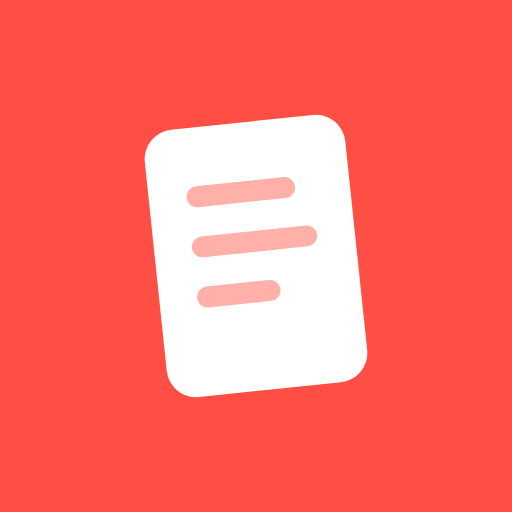
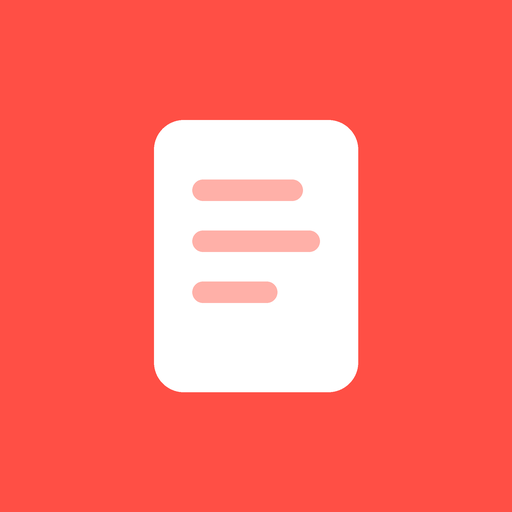
List thumbnails, to-do on launch, edited notes rise; vault out of main search
- Note rows show the first image (or YouTube video) as a 48px thumbnail, made once and cached per device.
- Opening the app starts on the to-do page; the app's own update reload stays on the list.
- Editing a note moves it, and its folder, to the top of its section.
- The main search no longer lists vault entries; the unencrypted site-name index is removed.
- Favourites band gets stronger edge rules; compact section headings with a notepad icon on 노트.
- Upright note in the app icon; outline 추가 button on the to-do page.

diff --git a/app.js b/app.js
@@ -3,9 +3,10 @@
 const $ = id => document.getElementById(id);
 const CFG_KEY = 'notes.config';
 const REPO_ID_KEY = 'notes.repoId';
-// Site names and addresses of vault entries, unencrypted and on this device only, so the main
-// search can find them while the vault is locked. IDs, passwords and memos are never in it.
-const VAULT_INDEX_KEY = 'notes.vaultIndex';
+// Older versions kept vault site names here, unencrypted, for the main search.
+localStorage.removeItem('notes.vaultIndex');
+// Set just before the app reloads itself for an update, so it comes back to the list it was on.
+const STAY_ON_LIST_KEY = 'notes.stayOnList';
 const MAX_UPLOADS_PER_CYCLE = 50; // GitHub limits content creation to about 80 writes a minute
 const MAX_IMAGE_SIDE = 1600;
 const IMAGE_PATH = /^\.\.\/images\/([0-9a-f]+\.(?:jpg|png|gif))$/;
@@ -360,6 +361,112 @@ function youtubeId(href) {
   return { id, start };
 }
 
+// ---------- List thumbnails ----------
+// A note's first image, or else its first YouTube video, shown small on its row in the list.
+// Image thumbnails are made once from the stored image and kept on this device only, in their
+// own database; they are never synced. Rows load theirs only when they scroll into view.
+
+const THUMB_SIDE = 144; // pixels: sharp at 48 points on a 3x screen
+const thumbUrls = new Map(); // image name → object URL of its thumbnail
+const thumbSources = new Map(); // note id → { body, src } for the body it was found in
+
+const thumbDb = new Promise(resolve => {
+  const req = indexedDB.open('notes-thumbs', 1);
+  req.onupgradeneeded = () => req.result.createObjectStore('thumbs');
+  req.onsuccess = () => resolve(req.result);
+  req.onerror = () => resolve(null); // no cache: thumbnails are made again each time
+});
+
+function thumbSource(n) {
+  const body = n.body || '';
+  const hit = thumbSources.get(n.id);
+  if (hit && hit.body === body) return hit.src;
+  let src = null;
+  const img = body.match(/<img\b[^>]*\bsrc="\.\.\/images\/([0-9a-f]+\.(?:jpg|png|gif))"/);
+  if (img) src = { image: img[1] };
+  else {
+    for (const m of body.matchAll(/\bhref="([^"]+)"/g)) {
+      const video = youtubeId(m[1].replace(/&amp;/g, '&'));
+      if (video) { src = { video: video.id }; break; }
+    }
+  }
+  thumbSources.set(n.id, { body, src });
+  return src;
+}
+
+async function thumbBlob(name) {
+  const db = await thumbDb;
+  const cached = db && await new Promise(resolve => {
+    const req = db.transaction('thumbs').objectStore('thumbs').get(name);
+    req.onsuccess = () => resolve(req.result || null);
+    req.onerror = () => resolve(null);
+  });
+  if (cached) return cached;
+  const image = await getImage(name);
+  if (!image) return null; // not downloaded yet; the list is drawn again when it arrives
+  const bitmap = await createImageBitmap(image.blob);
+  const side = Math.min(bitmap.width, bitmap.height);
+  const canvas = document.createElement('canvas');
+  canvas.width = canvas.height = Math.min(THUMB_SIDE, side);
+  const ctx = canvas.getContext('2d');
+  ctx.fillStyle = '#fff'; // under transparent parts, which a JPEG would turn black
+  ctx.fillRect(0, 0, canvas.width, canvas.height);
+  ctx.drawImage(bitmap, (bitmap.width - side) / 2, (bitmap.height - side) / 2, side, side, 0, 0, canvas.width, canvas.height);
+  bitmap.close();
+  const blob = await new Promise(resolve => canvas.toBlob(resolve, 'image/jpeg', 0.8));
+  if (blob && db) db.transaction('thumbs', 'readwrite').objectStore('thumbs').put(blob, name);
+  return blob;
+}
+
+function dropThumb(img) {
+  const button = img.parentElement && img.parentElement.querySelector('button.with-thumb');
+  if (button) button.classList.remove('with-thumb');
+  img.remove();
+}
+
+async function loadThumb(img) {
+  const name = img.dataset.image;
+  let url = thumbUrls.get(name);
+  if (!url) {
+    const blob = await thumbBlob(name).catch(() => null);
+    if (blob) {
+      url = URL.createObjectURL(blob);
+      thumbUrls.set(name, url);
+    }
+  }
+  if (url) img.src = url;
+  else dropThumb(img);
+}
+
+const thumbObserver = new IntersectionObserver(entries => {
+  for (const e of entries) {
+    if (!e.isIntersecting) continue;
+    thumbObserver.unobserve(e.target);
+    loadThumb(e.target);
+  }
+}, { root: $('list'), rootMargin: '200px 0px' });
+
+function thumbFor(n) {
+  const src = thumbSource(n);
+  if (!src) return null;
+  const img = document.createElement('img');
+  img.className = 'thumb';
+  img.alt = '';
+  img.decoding = 'async';
+  img.onerror = () => dropThumb(img);
+  if (src.video) {
+    img.loading = 'lazy';
+    img.referrerPolicy = 'no-referrer';
+    img.src = `https://i.ytimg.com/vi/${src.video}/mqdefault.jpg`;
+  } else if (thumbUrls.has(src.image)) {
+    img.src = thumbUrls.get(src.image);
+  } else {
+    img.dataset.image = src.image;
+    thumbObserver.observe(img);
+  }
+  return img;
+}
+
 function decorateVideos() {
   if (!editor) return;
   const body = editor.getBody();
@@ -511,15 +618,6 @@ function appendSnippet(el, note, q) {
   );
 }
 
-function readVaultIndex() {
-  try {
-    const list = JSON.parse(localStorage.getItem(VAULT_INDEX_KEY) || '[]');
-    return Array.isArray(list) ? list : [];
-  } catch {
-    return [];
-  }
-}
-
 // ---------- Note order ----------
 // The list keeps the order it is dragged into. The order lives in its own repository file,
 // merged note by note like the to-do list, so reordering never rewrites the notes themselves.
@@ -556,6 +654,15 @@ const topOrderValue = () => Math.min(0, ...Object.values(loadOrder().items).map(
 // restored or moved into a folder), go to the top.
 function putOnTop(id) {
   setOrders({ [id]: topOrderValue() });
+}
+
+// An edited note goes to the top of its section, and its folder to the top of the folder's.
+// Once per opening, so typing does not keep rewriting the order.
+let raisedId = null;
+function raiseEdited(id) {
+  const top = topOrderValue();
+  const folder = folderOf(id);
+  setOrders(folder ? { [id]: top, [folder.id]: top - 1 } : { [id]: top });
 }
 
 // ---------- Folders ----------
@@ -868,6 +975,13 @@ async function render() {
     b.onclick = () => openNote(n.id);
     li.append(b);
     if (editingOrder) li.append(handleFor(li));
+    else {
+      const thumb = thumbFor(n);
+      if (thumb) {
+        b.classList.add('with-thumb');
+        li.append(thumb);
+      }
+    }
     return li;
   };
   const folderRow = (f, section) => {
@@ -905,6 +1019,15 @@ async function render() {
     }
     return li;
   };
+  const notesLabel = () => {
+    const li = label('');
+    li.classList.add('notes-label');
+    const icon = document.createElement('b');
+    icon.className = 'head-icon';
+    icon.innerHTML = '<svg viewBox="0 0 14 14" aria-hidden="true"><rect x="2.5" y="1.5" width="9" height="11" rx="1.5"/><path d="M5 5h4M5 7.5h4M5 10h2.5"/></svg>';
+    li.append(icon, '노트');
+    return li;
+  };
   const row = section => item => (item.kind === 'folder' ? folderRow(item, section) : noteRow(item, section));
   // Favourite rows share one card; dragging still moves them among their own siblings.
   const favCard = () => {
@@ -913,39 +1036,25 @@ async function render() {
     const head = document.createElement('div');
     head.className = 'fav-label';
     const star = document.createElement('b');
+    star.className = 'head-icon';
     star.textContent = '★';
-    head.append(star, ' 즐겨찾기');
+    head.append(star, '즐겨찾기');
     const ul = document.createElement('ul');
     ul.className = 'fav-list';
     ul.append(...favorites.map(row('favorite')));
     li.append(head, ul);
     return li;
   };
-  const vaultHits = q && !activeTag ? readVaultIndex().filter(e => `${e.site}\n${e.url}`.toLowerCase().includes(q)) : [];
-  const vaultRow = e => {
-    const li = document.createElement('li');
-    const b = document.createElement('button');
-    b.type = 'button';
-    const title = document.createElement('strong');
-    title.textContent = `🔒 ${e.site.trim() || e.url.trim()}`;
-    const sub = document.createElement('span');
-    sub.textContent = e.site.trim() && e.url.trim() ? e.url.trim() : '금고 항목 · 열려면 잠금 해제';
-    b.append(title, sub);
-    b.onclick = () => openVaultEntry(e.id);
-    li.append(b);
-    return li;
-  };
   $('list').replaceChildren(
     // todo.js may still be loading on the first draw; it draws the list again once it is in.
     ...(q || activeTag || typeof todoEntry !== 'function' ? [] : [todoEntry()]),
     ...(favorites.length ? [favCard()] : []),
-    ...(favorites.length && others.length ? [label('노트')] : []),
+    ...(favorites.length && others.length ? [notesLabel()] : []),
     ...others.map(row('note')),
-    ...(vaultHits.length ? [label('금고'), ...vaultHits.map(vaultRow)] : []),
   );
 
   const empty = $('empty');
-  empty.hidden = shown.length + vaultHits.length > 0;
+  empty.hidden = shown.length > 0;
   empty.textContent = q || activeTag ? '찾는 노트가 없어요.' : '아직 노트가 없어요. ＋ 버튼으로 시작하세요.';
   if ($('trash').open) await renderTrash();
   if ($('todo').open) renderTodos();
@@ -985,6 +1094,10 @@ async function flushEditor() {
     return n;
   });
   $('edited').textContent = '저장됨 ' + formatDate(new Date().toISOString());
+  if (raisedId !== id) {
+    raisedId = id;
+    raiseEdited(id);
+  }
   render();
   scheduleSync(3000);
 }
@@ -1061,6 +1174,7 @@ async function showNote(n, fromSearch) {
   await ensureEditor();
   await loadIntoEditor(n, false);
   currentId = n.id; // set last, so a save during loading cannot write the old text into this note
+  raisedId = null;
   editor.getWin().scrollTo(0, 0);
   $('edited').textContent = '수정 ' + formatDate(n.updated);
   closeFind();
@@ -2015,7 +2129,10 @@ if ('serviceWorker' in navigator) {
     if (!hadController || updateSeen) return;
     updateSeen = true;
     // Never reload under someone who is editing or inside the vault.
-    if (!currentId && !$('vault').open && !$('todo').open) location.reload();
+    if (!currentId && !$('vault').open && !$('todo').open) {
+      sessionStorage.setItem(STAY_ON_LIST_KEY, '1');
+      location.reload();
+    }
     else toast('새 버전이 준비됐어요. 앱을 다시 열면 적용돼요.');
   });
   navigator.serviceWorker.register('sw.js');

diff --git a/style.css b/style.css
@@ -14,6 +14,7 @@
   --text-soft: #4b4741;
   --handle: #a19b91;
   --card: #f5f2eb;
+  --edge: #aba69c;
 }
 @media (prefers-color-scheme: dark) {
   :root {
@@ -31,6 +32,7 @@
     --text-soft: #c6c2b9;
     --handle: #8a857b;
     --card: #292826;
+    --edge: #6c685f;
   }
 }
 * { box-sizing: border-box; }
@@ -158,9 +160,12 @@ body.resizing #main { pointer-events: none; }
 }
 #list .folder-head[aria-expanded="true"] strong::after { transform: translateY(2px) rotate(-135deg); }
 /* Favourites share one grey band across the full width, opened by its own heading. */
-#list li.fav-card { background: var(--card); }
-.fav-label { padding: 20px 16px 8px; color: var(--muted); font-size: 13px; font-weight: 700; }
+#list li.fav-card { background: var(--card); border-top: 1px solid var(--edge); border-bottom: 1px solid var(--edge); }
+.fav-label { padding: 8px 16px 4px; color: var(--muted); font-size: 13px; font-weight: 700; }
 .fav-label b { color: var(--accent); }
+/* ★ and the notepad sit in one slot, so both headings start their words in line. */
+.head-icon { display: inline-block; width: 16px; margin-right: 4px; text-align: center; }
+.head-icon svg { display: inline-block; width: 13px; height: 13px; vertical-align: -1px; fill: none; stroke: currentColor; stroke-width: 1.3; stroke-linecap: round; }
 .fav-list { margin: 0; padding: 0; list-style: none; }
 .folder-fav { width: 100%; min-height: 44px; margin-bottom: 12px; text-align: left; }
 /* The note's own star is the only place a note is starred, so it gets a little more room. */
@@ -209,7 +214,20 @@ body.list-dragging, body.list-dragging * { cursor: grabbing; user-select: none; 
   font-size: 12px;
   font-weight: 700;
 }
-#list > li.label { padding: 20px 16px 8px; font-size: 13px; }
+#list > li.label { padding: 8px 16px 4px; font-size: 13px; }
+#list button.with-thumb { padding-right: 76px; }
+#list img.thumb {
+  position: absolute;
+  top: 50%;
+  right: 16px;
+  width: 48px;
+  height: 48px;
+  margin-top: -24px;
+  border-radius: 8px;
+  background: var(--line);
+  object-fit: cover;
+  pointer-events: none;
+}
 #list button.note.with-handle, #list button.folder-head { padding-right: 48px; }
 #list button.folder-more {
   position: absolute;
@@ -415,6 +433,7 @@ dialog#vault .bar, dialog#todo .bar {
 dialog .todo-add input { flex: 1; min-width: 0; margin: 0; }
 dialog .todo-add select { flex: none; width: auto; margin: 0; padding: 8px 6px; }
 .todo-add button { flex: none; }
+.todo-add button.primary { background: transparent; color: var(--accent); }
 .todo-section h2, .todo-section summary { margin: 20px 0 6px; font-size: 15px; font-weight: 700; }
 .todo-section summary { cursor: pointer; }
 .todo-section > .muted { margin: 4px 0 0; }

diff --git a/vault.js b/vault.js
@@ -255,9 +255,6 @@ async function openVault() {
       await reloadEntries();
       backToList();
       resetIdleTimer();
-      const pending = vaultEntries.find(e => e.id === pendingEntryId);
-      pendingEntryId = null;
-      if (pending) openForm(pending);
       return;
     }
     lockVault();
@@ -265,13 +262,6 @@ async function openVault() {
   await showLockedPanel();
   // Only here, not after locking: the lock button must not bring the prompt straight back.
   if (!$('vault-unlock').hidden && !$('vault-bio-unlock').hidden) await unlockWithBio();
-}
-
-// From a vault row in the main search: unlock, then go straight to that entry.
-let pendingEntryId = null;
-function openVaultEntry(id) {
-  pendingEntryId = id;
-  openVault();
 }
 
 async function showLockedPanel() {
@@ -331,9 +321,6 @@ async function unlockWithRawKey(raw, keyId) {
   showVaultPanel('vault-list');
   resetIdleTimer();
   await restoreDraft();
-  const pending = vaultEntries.find(e => e.id === pendingEntryId);
-  pendingEntryId = null;
-  if (pending && $('vault-form').hidden) openForm(pending);
 }
 
 async function unlockWithPassphrase(event) {
@@ -395,7 +382,6 @@ async function createVault(event) {
 function lockVault() {
   clearTimeout(idleTimer);
   clearTimeout(graceTimer);
-  pendingEntryId = null;
   const key = vaultKey;
   const unsaved = key && !$('vault-form').hidden && formDirty ? { id: editingId, ...readForm() } : null;
   vaultKey = null;
@@ -450,8 +436,6 @@ async function reloadEntries() {
   vaultEntries = entries;
   vaultPatterns = patterns.sort((a, b) => a.site.localeCompare(b.site, 'ko'));
   vaultBroken = broken;
-  localStorage.setItem(VAULT_INDEX_KEY, JSON.stringify(entries.map(e => ({ id: e.id, site: e.site || '', url: e.url || '' }))));
-  render();
 }
 
 const entryName = e => e.site.trim() || (e.url || '').trim();

diff --git a/todo.js b/todo.js
@@ -536,3 +536,8 @@ $('todo-import-run').onclick = runTodoImport;
 $('todo-import-cancel').onclick = () => showTodoPanel('todo-main');
 $('todo').addEventListener('focusout', () => setTimeout(() => { if (todoRenderPending && !typingInTodo()) renderTodos(); }, 0));
 render(); // adds the to-do row, in case the list was drawn before this file loaded
+
+// Opening the app starts on the to-do page, over the list; back or ← shows the list. Not after
+// the app reloads itself for an update, which happens only while the list is showing.
+if (sessionStorage.getItem(STAY_ON_LIST_KEY)) sessionStorage.removeItem(STAY_ON_LIST_KEY);
+else openTodo();

diff --git a/sw.js b/sw.js
@@ -1,7 +1,7 @@
 'use strict';
 
 // Bump the version only when you want to change the app; otherwise it never updates itself.
-const CACHE = 'notes-v42';
+const CACHE = 'notes-v43';
 const T = 'vendor/tinymce/';
 const FILES = [
   './', 'index.html', 'style.css', 'app.js', 'vault.js', 'todo.js', 'manifest.webmanifest', 'icon-192.png', 'icon-512.png',
